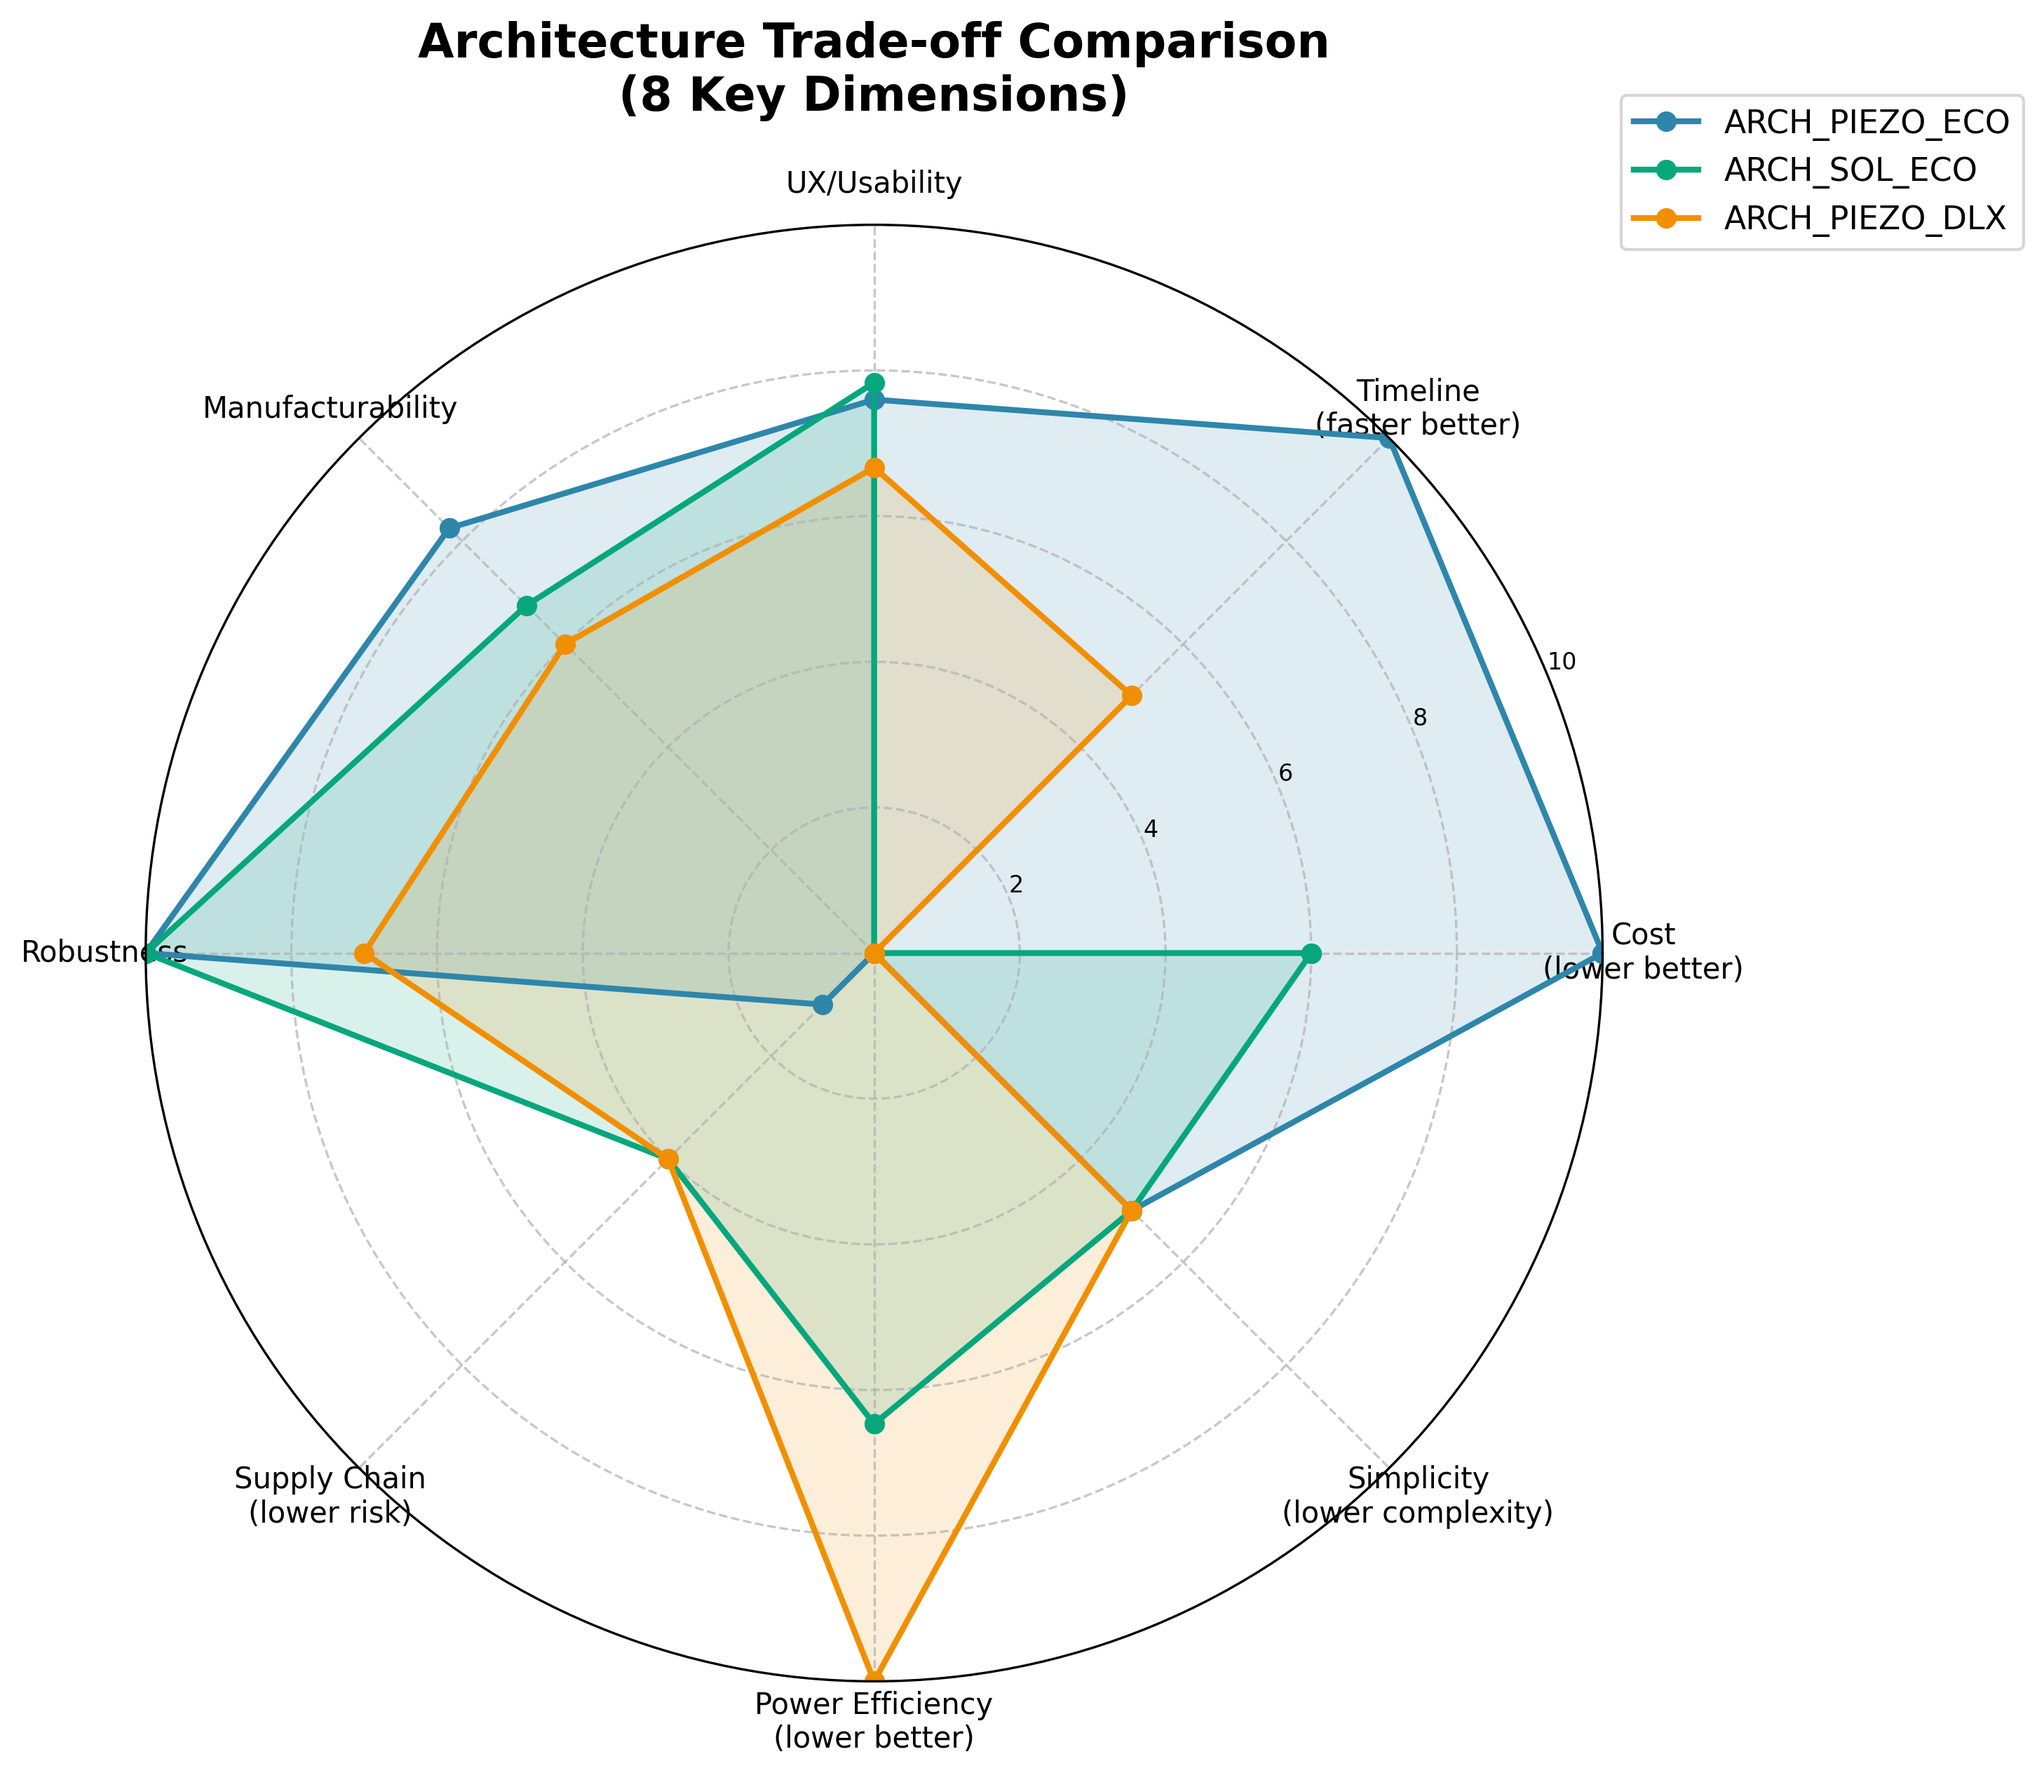
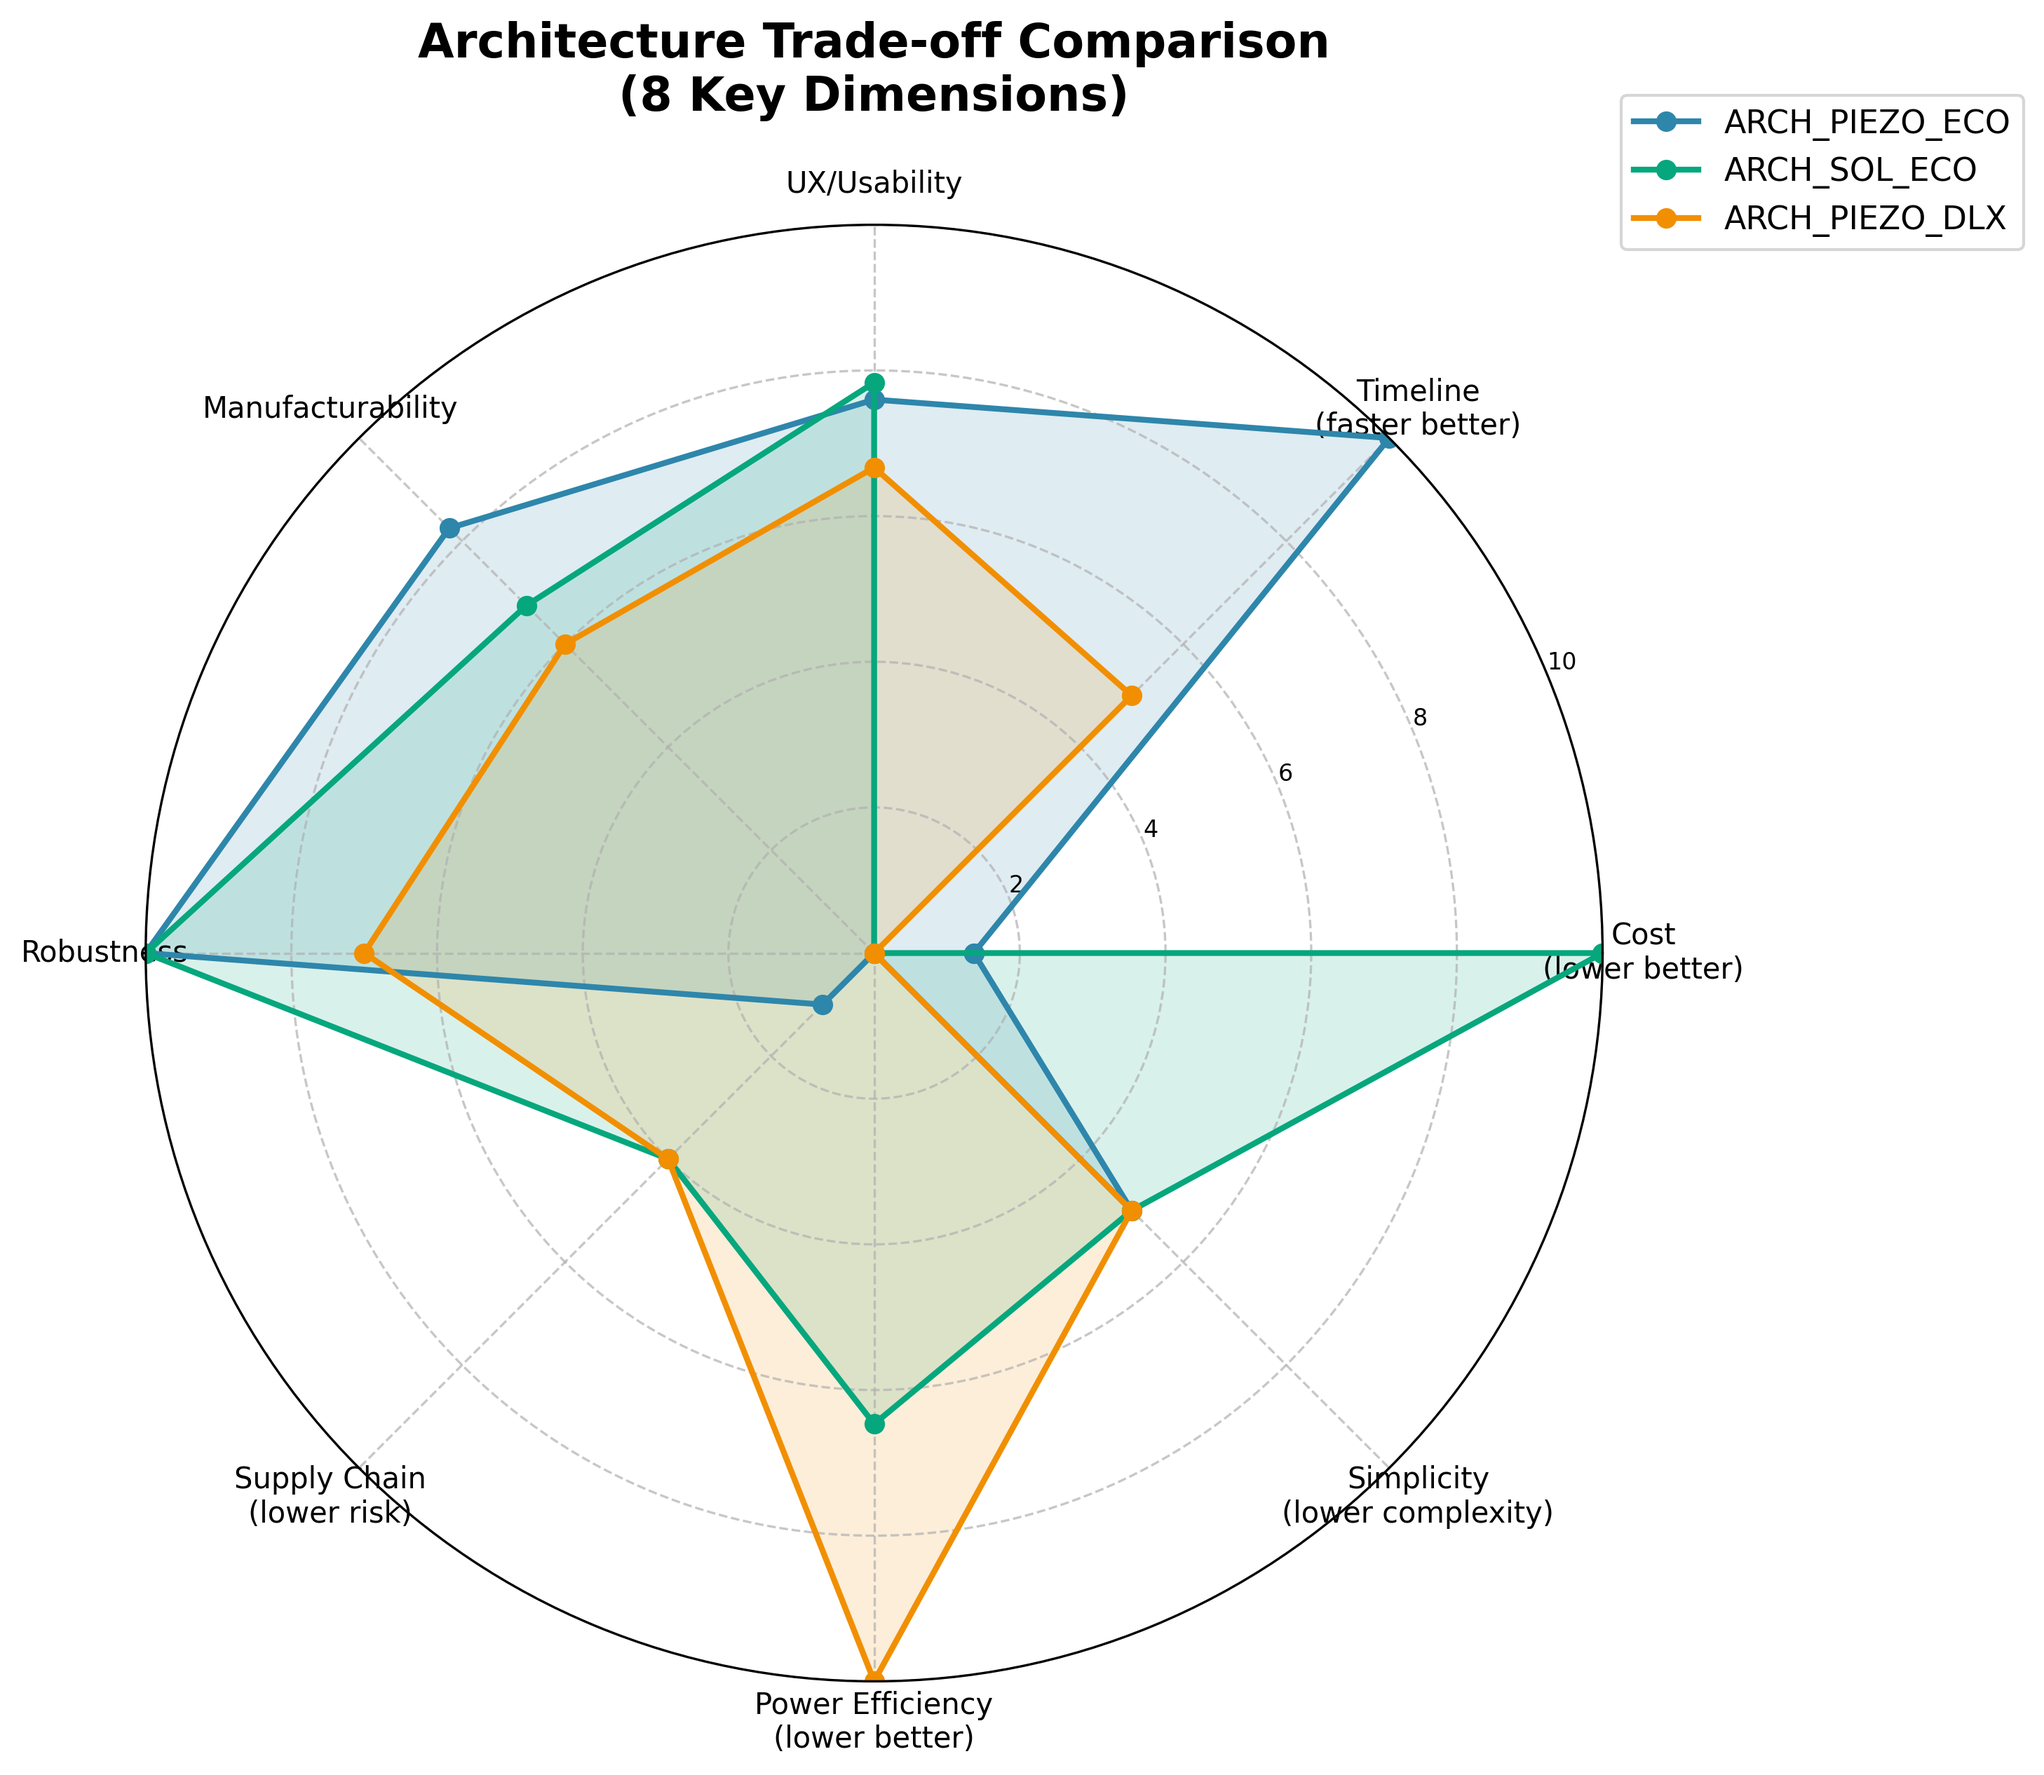
fix(charts): Use actual BOM costs from CSV files instead of YAML targets
Changes to scripts/generate_tradeoff_charts.py:
- Added extract_bom_cost() function to read actual costs from artifacts/bom/*.csv
- Updated extract_spider_data() to use actual costs (not quantitative.cost.bom_target)
- Updated generate_cost_chart() to use actual costs (not bom_cost_pilot)

Actual BOM costs (from CSV files):
- ARCH_PIEZO_ECO: $591.99 (was using 125 target - 4.7x difference!)
- ARCH_SOL_ECO: $505.71 (was using 165 target - 3x difference!)
- ARCH_PIEZO_DLX: $605.67 (was using 225 target - 2.7x difference!)

This fixes the radar chart cost dimension to show accurate relative costs.
The cost comparison chart now shows real pilot BOM totals.

Regenerated all charts and presentation with actual costs.

🤖 Generated with [Claude Code](https://claude.com/claude-code)

Changed region(s): [[0.4683, 0.2496, 0.7804, 0.6864], [0.6556, 0.5928, 0.6868, 0.624]]

diff --git a/scripts/generate_tradeoff_charts.py b/scripts/generate_tradeoff_charts.py
@@ -21,10 +21,12 @@ import yaml
 import matplotlib.pyplot as plt
 import matplotlib.patches as mpatches
 import numpy as np
+import csv
 from pathlib import Path
 
 # Configuration
 ARCHITECTURES_YAML = Path("source/architectures.yaml")
+BOM_DIR = Path("artifacts/bom")
 OUTPUT_DIR = Path("source/images")
 OUTPUT_DIR.mkdir(parents=True, exist_ok=True)
 
@@ -132,6 +134,47 @@ def normalize_to_scale(value, min_val, max_val, lower_is_better=False):
     return normalized
 
 
+def extract_bom_cost(arch_id):
+    """
+    Extract actual BOM cost from CSV file in artifacts/bom/
+
+    Args:
+        arch_id: Architecture ID (e.g., "ARCH_PIEZO_ECO")
+
+    Returns:
+        float: Total BOM cost, or 0 if file not found
+    """
+    # Map architecture ID to BOM filename
+    bom_filename_map = {
+        "ARCH_PIEZO_ECO": "arch-piezo-eco-bom.csv",
+        "ARCH_SOL_ECO": "arch-sol-eco-bom.csv",
+        "ARCH_PIEZO_DLX": "arch-piezo-dlx-bom.csv",
+    }
+
+    bom_file = BOM_DIR / bom_filename_map.get(arch_id, "")
+
+    if not bom_file.exists():
+        print(f"⚠  BOM file not found: {bom_file}")
+        return 0
+
+    # Read CSV and extract TOTAL from last line
+    with open(bom_file, 'r') as f:
+        reader = csv.reader(f)
+        rows = list(reader)
+
+        # Last row should have format: ---,---,---,---,---,---,TOTAL,---,---,<cost>,---,---,---
+        last_row = rows[-1]
+        for i, cell in enumerate(last_row):
+            if cell == "TOTAL" and i + 3 < len(last_row):
+                try:
+                    return float(last_row[i + 3])
+                except ValueError:
+                    pass
+
+    print(f"⚠  Could not parse TOTAL from {bom_file}")
+    return 0
+
+
 def load_architectures():
     """Load and parse architectures.yaml"""
     with open(ARCHITECTURES_YAML, 'r') as f:
@@ -174,9 +217,10 @@ def extract_spider_data(architectures):
 
     for arch in architectures:
         quant = arch.get('quantitative', {})
+        arch_id = arch.get('id')
 
-        # Parse cost - from nested cost.bom_target (not bom_cost_pilot)
-        cost = float(quant.get('cost', {}).get('bom_target', 0))
+        # Parse cost - from actual BOM CSV files in artifacts/bom/ (not YAML targets)
+        cost = extract_bom_cost(arch_id)
         costs.append(cost)
 
         # Parse timeline - from nested timeline.total_weeks (not timeline_weeks)
@@ -298,9 +342,8 @@ def generate_cost_chart(architectures, output_path):
         short_name = arch_id.replace('ARCH_', '').replace('_', ' ')
         arch_names.append(short_name)
 
-        # Parse cost
-        cost_str = arch.get('quantitative', {}).get('bom_cost_pilot', '0')
-        cost = float(cost_str.replace('$', '').replace(',', ''))
+        # Parse cost from actual BOM CSV files
+        cost = extract_bom_cost(arch_id)
         costs.append(cost)
 
     # Create figure
